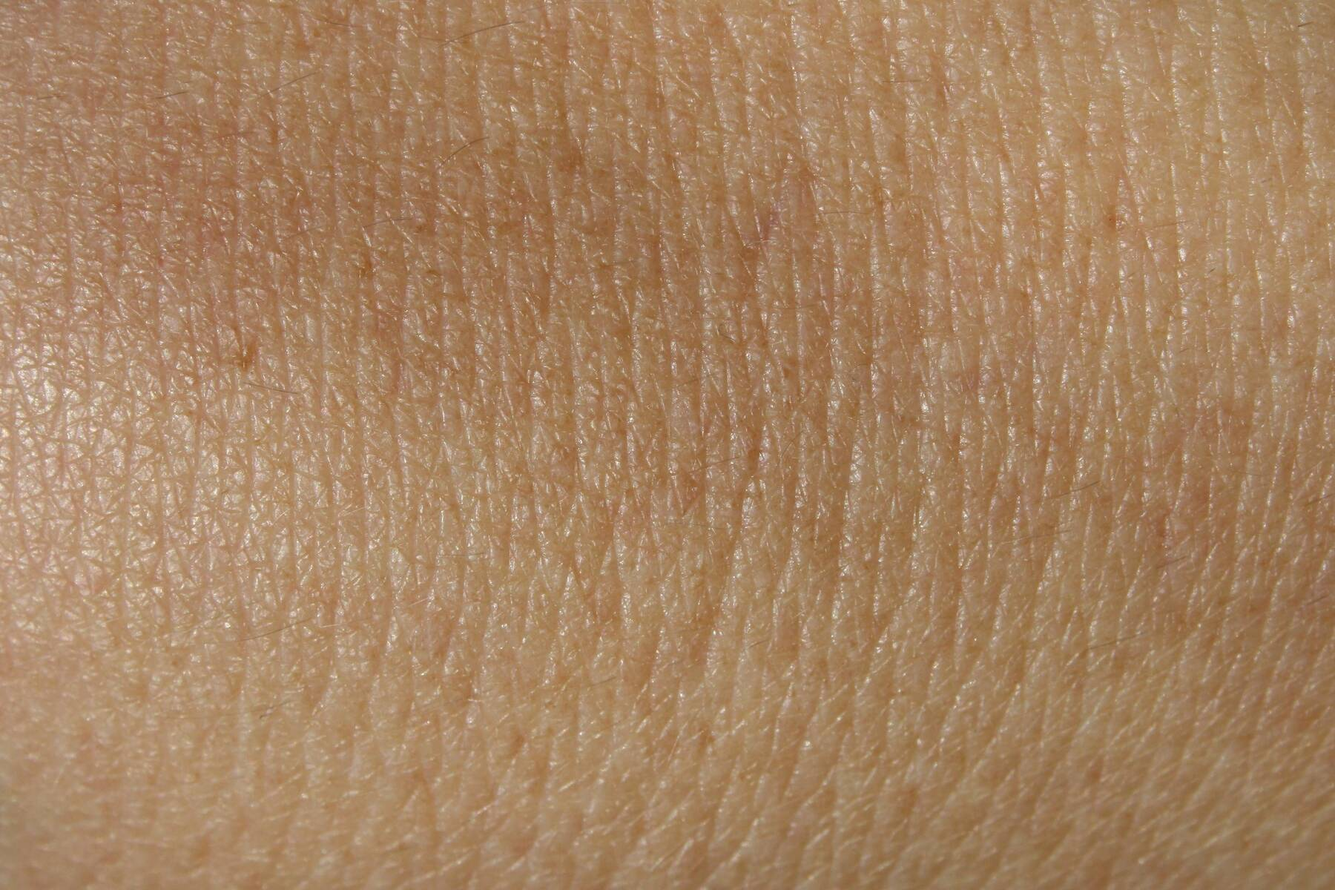
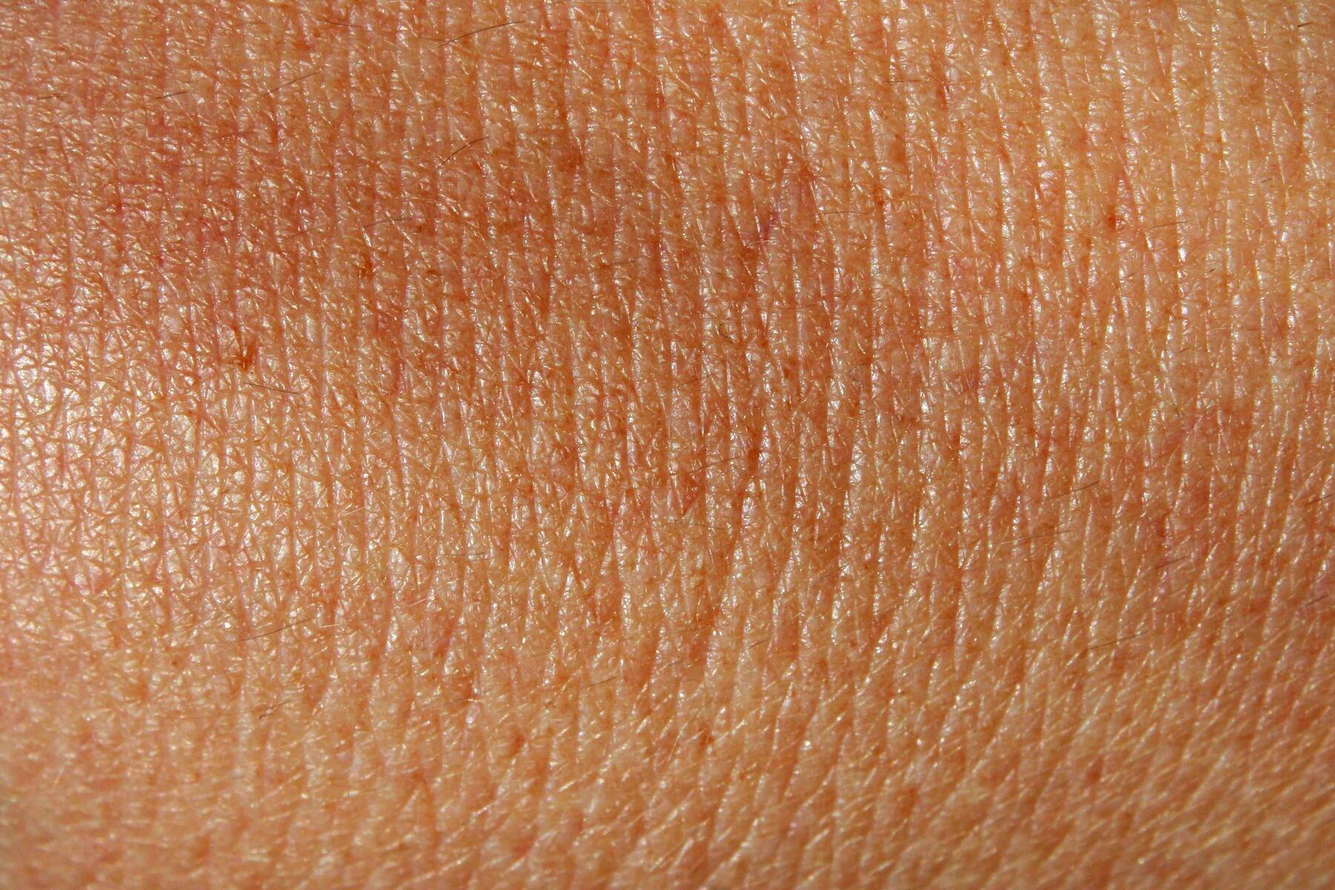
Foto de piel con más color y contraste, y más visible en la portada
Retocada desde el original a máxima resolución (saturación, contraste y relieve,
tono algo más rosado). Opacidad en la portada de 55 % a 75 % (60 % en móvil).

Claude-Session: https://claude.ai/code/session_014dBG1rKuFGypwA3fhEVf6J

diff --git a/assets/css/main.css b/assets/css/main.css
@@ -160,7 +160,7 @@ p { margin: 0 0 1em; }
   content: "";
   position: absolute; top: 0; right: 0; bottom: 0; width: 48%;
   background: url("{{ '/assets/img/hex.svg' | relative_url }}") 0 0 / 48px 27.713px, url("{{ '/assets/img/piel.jpg' | relative_url }}") center / cover;
-  opacity: .55;
+  opacity: .75;
   -webkit-mask: var(--hex-mask, none) 0 0 / 100% 100% no-repeat;
   mask: var(--hex-mask, none) 0 0 / 100% 100% no-repeat;
 }
@@ -415,7 +415,7 @@ p { margin: 0 0 1em; }
   .nav .btn { margin-top: 18px; }
 
   .hero { padding: 40px 0 64px; }
-  .hero::before { width: 100%; height: 46%; top: auto; bottom: 0; opacity: .4; }
+  .hero::before { width: 100%; height: 46%; top: auto; bottom: 0; opacity: .6; }
   .hero-grid, .page-head-grid, .two-col, .cards, .places, .contact-grid { grid-template-columns: 1fr; gap: 36px; }
   .places { row-gap: 0; }
   .place + .place { margin-top: 28px; }
